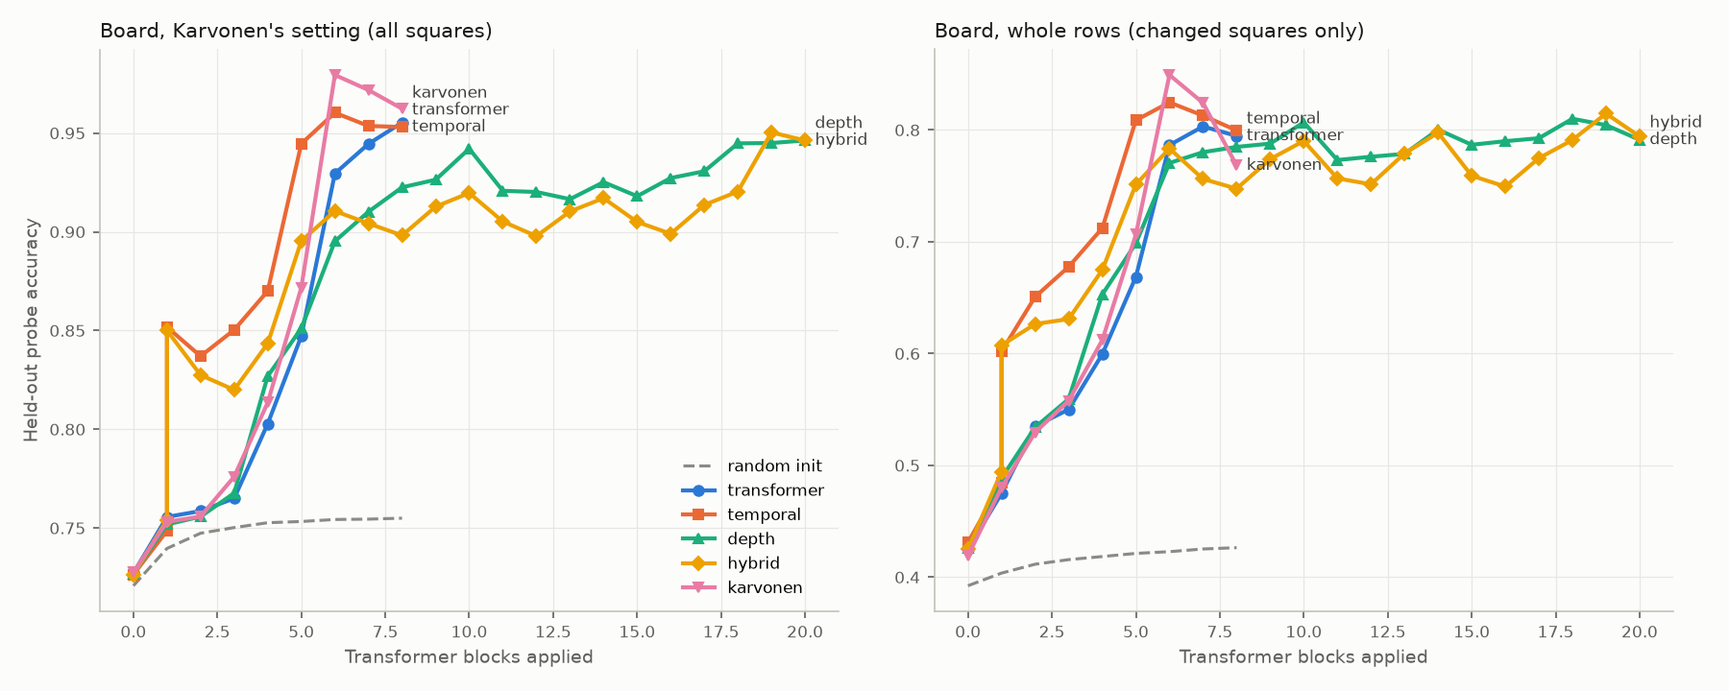
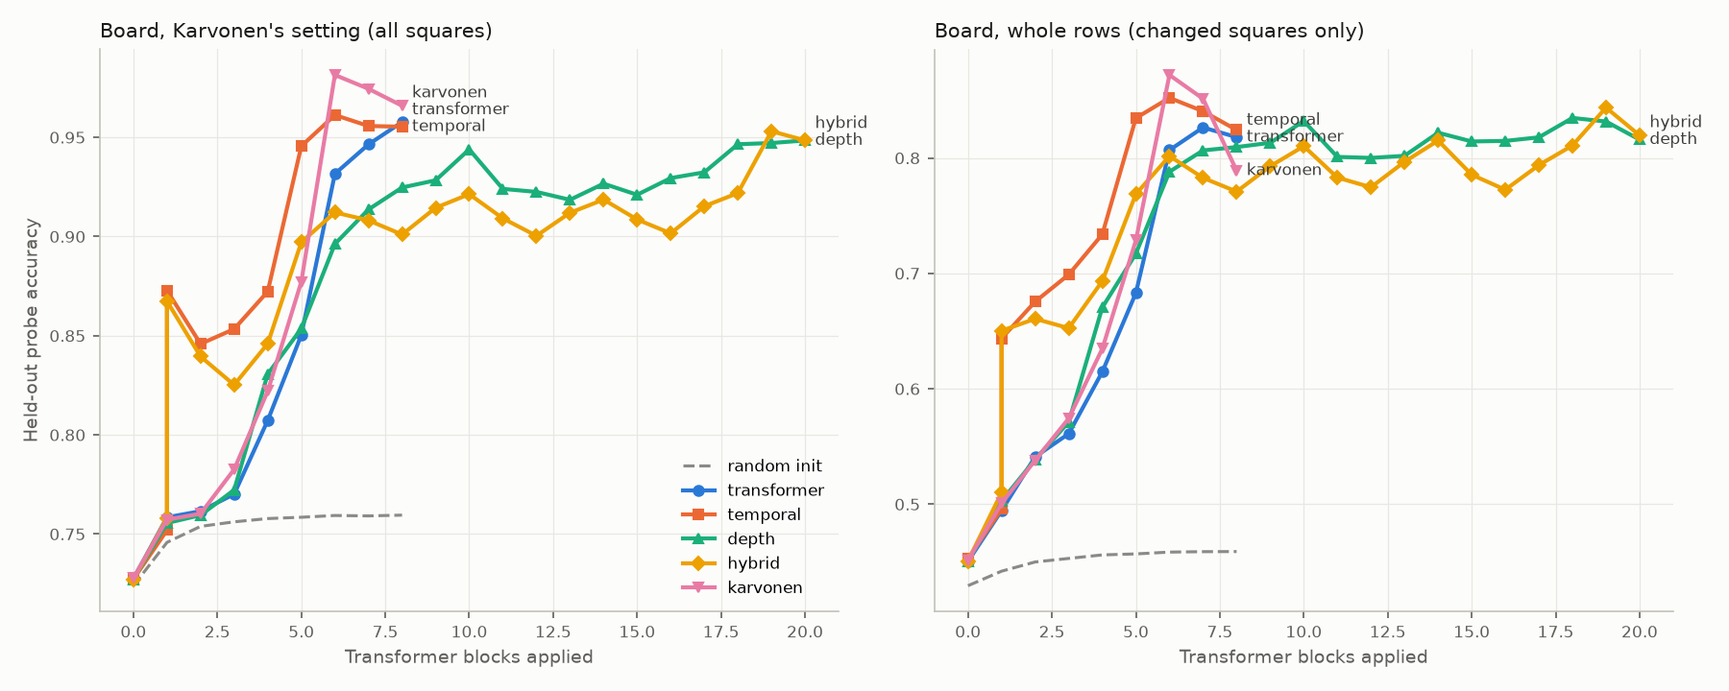
docs(interp): correct the board-state report
Numbers now come from probes trained to convergence and fitted per side to
move where the encoding is absolute. Adds the move-cycle and mixer
sections, and replaces the pooled before/after and decision tables, whose
probes mixed White- and Black-to-move points. Notes that steering used the
first-round probes.

diff --git a/experiments/interp/board_state/REPORT.md b/experiments/interp/board_state/REPORT.md
@@ -4,16 +4,17 @@ Linear probes for the board and the side to move at every residual-stream site o
 
 ## Summary
 
-- **The pipeline reproduces Karvonen.** In his setting, his model's board probe peaks at L6 with 0.980 of squares correct (paper: 0.991 with about ten times more probe games). The random-init model scores 0.754 (paper: 0.750). His 99% applies only to each game's first 365 characters. Over whole 1,023-character rows the same kind of probe gets 0.87–0.91.
-- **Temporal memory brings the board in early.** Right after the temporal mixer (`Tmix`, one block applied), temporal and hybrid decode the board at 0.85. The transformer needs five blocks to get there, and the depth model's first iteration tracks the transformer.
-- **The memory carries the board already updated with the latest move,** and the model uses it to choose its move. The previous character's late layers apply the move. Swapping the memories of the last 64 characters for another game's moves both the board read at L6 and the next move toward that other game.
-- **Temporal peaks slightly higher and earlier than our transformer:** 0.960 at L6 against 0.955 at L8. All four 20B arms stay below Karvonen's 3×-longer-trained transformer (0.979). Recurrence gives an earlier board, not a much better one.
-- **The move decision is readable earlier in the temporal model too.** The memory carries information about the upcoming move from the previous character. Final readouts are equal across arms. In the looped arms, core iterations after the first (hybrid) or second (depth) add almost nothing to board or move readouts.
+- **The pipeline reproduces Karvonen.** In his setting, his model's board probe peaks at L6 with 0.981 of squares correct (paper: 0.991, with about ten times more probe games). The random-init model scores 0.760 (paper: 0.750). His 99% holds only for each game's first 365 characters; over whole rows the best probe reads 0.90–0.93.
+- **The temporal memory brings the board in early.** Right after the temporal mixer (`Tmix`, one block applied), temporal and hybrid decode the board at 0.87. The transformer reaches 0.85 only at L5.
+- **The memory holds almost the whole board, but the mixer drops part of it.** The memory a dot reads decodes at 0.939 (temporal) and 0.959 (hybrid); after the mixer, 0.873 and 0.867. Mostly older changes are lost. The memory's term entering the mixer is smaller than the current character's (median 0.64×, hybrid 0.50×).
+- **The model uses the board in its memory to choose its move.** Swapping the memories read by the last 64 characters for another game's moves the board at L6 and the next move toward that other game.
+- **The full board is assembled where a move is chosen.** At the decision characters and the move's first character, older changes read at 0.86–0.89 by L5. The board then fades as the move is written (0.79 inside it, 0.76 at its last character). At spaces before move numbers and at digits it stays at 0.67–0.75.
+- **Recurrence gives an earlier board, not a much better one.** Best board, Karvonen setting: temporal 0.961, transformer 0.958, hybrid 0.953, depth 0.948, Karvonen's 3×-longer-trained transformer 0.981. On changed squares over whole rows temporal leads our transformer by 0.026.
+- **Looped cores add little after their first or second pass.** Depth needs its second iteration for the board and the move; the hybrid has both after its first. Its iterations restart mostly from L2: the previous iteration enters at half the weight of the fresh start (depth model: 0.8).
 - **The probes are causal where the model reads them.**
-  - Pushing the side-to-move direction at L2–L3 flips the model between predicting a move number and a move in 99–100% of held-out cases in the transformer and depth arms. A random direction of the same norm does nothing.
-  - Deleting a piece from the probed board in the late layers makes the new move legal on the modified board 64–72% of the time across our arms, against 10–19% for random directions. Temporal gives 72%, our transformer 65%, Karvonen's model 78%.
-  - Edits where the memory delivers the board have no effect, because earlier characters still carry the true board.
-- **Single training seed, one probe split.** Differences of about 0.005 in probe accuracy should not be over-read.
+  - Pushing the side-to-move direction at L2–L3 flips the model between predicting a move number and a move in 96–100% of held-out cases in the transformer and depth arms.
+  - Deleting a piece from the probed board in the late layers makes the new move legal on the modified board 64–72% of the time across our arms, against 10–19% for random directions.
+- **One training seed per arm, one probe split.** Probe differences of about 0.005 should not be read as real.
 
 ![Board probe accuracy against transformer blocks applied](report_figures/probe_curves.png)
 
@@ -21,103 +22,152 @@ Linear probes for the board and the side to move at every residual-stream site o
 
 ## Replicating Karvonen
 
-Karvonen's probe code (`chess_llm_interpretability`) truncates each probe game to its first 365 characters and probes only `.` characters within them. Our first pass probed whole rows, which contain long games and later games in a row, and gave about 0.94 at best. `board_karvonen` applies his restriction.
+Karvonen's probe code (`chess_llm_interpretability`) truncates each probe game to its first 365 characters and probes only `.` characters within them. Probing whole rows, which contain long games and later games in a row, gives lower accuracy. `board_karvonen` applies his restriction.
 
 | Model | L4 | L5 | L6 | L7 | L8 |
 | --- | --- | --- | --- | --- | --- |
-| Karvonen's model | 0.814 | 0.872 | **0.979** | 0.972 | 0.962 |
-| Our transformer | 0.803 | 0.847 | 0.930 | 0.945 | **0.955** |
-| Random init | 0.753 | 0.753 | 0.754 | 0.755 | 0.755 |
+| Karvonen's model | 0.822 | 0.877 | **0.981** | 0.974 | 0.966 |
+| Our transformer | 0.807 | 0.850 | 0.932 | 0.946 | **0.958** |
+| Random init | 0.758 | 0.758 | 0.759 | 0.759 | 0.760 |
 
-The per-square majority baseline is 0.667. The mine/theirs encoding is not the issue: at `.` characters White is always to move, so mine is white.
+The per-square majority baseline is 0.667. At `.` characters White is always to move, so the mine/theirs encoding coincides with white/black there.
 
-At white-to-move points, errors concentrate on the opponent's pieces. In an L7 probe of our transformer, White's pieces are recalled at 0.93–0.97 and Black's at 0.80–0.85, mostly black pawns predicted empty. An MLP probe at the same site reaches 0.961 over whole rows, against 0.940 for the linear probe. Part of the board is present but not linearly readable.
+*Exploratory, not reproduced by the committed scripts:* on a separate 3,000-row capture, a dot-only probe at our transformer's L7 recalled White's pieces at 0.93–0.97 and Black's at 0.80–0.85, and an MLP probe reached 0.961 against 0.940 for the linear probe.
 
 ## Layer curves
 
-Board accuracy in Karvonen's setting, and on changed squares over whole rows (squares whose class differs from the starting position):
+Board accuracy in Karvonen's setting, and on changed squares (class differs from the starting position) over whole rows:
 
-| Arm | Early site | Karvonen setting at early site | Best (site) | Changed squares, best |
+| Arm | Early site | Karvonen setting at early site | Best, Karvonen setting (site) | Best, changed squares (site) |
 | --- | --- | --- | --- | --- |
-| Transformer | L2 | 0.742 | 0.955 (L8) | 0.803 |
-| Temporal | `Tmix` | **0.852** | **0.960 (L6)** | **0.825** |
-| Depth | L2 | 0.756 | 0.946 (L8) | 0.810 |
-| Hybrid | `Tmix` | **0.850** | 0.950 (L7) | 0.815 |
-| Karvonen | L2 | 0.756 | 0.979 (L6) | 0.849 |
+| Transformer | L2 | 0.762 | 0.958 (L8) | 0.826 (L7) |
+| Temporal | `Tmix` | **0.873** | **0.961 (L6)** | **0.852 (L6)** |
+| Depth | L2 | 0.760 | 0.948 (L8) | 0.835 (L6@4) |
+| Hybrid | `Tmix` | **0.867** | 0.953 (L7) | 0.844 (L7) |
+| Karvonen | L2 | 0.760 | 0.981 (L6) | 0.872 (L6) |
 
-- **The early jump is the temporal read.** Temporal and hybrid gain 0.10 between L1 and `Tmix`, with no block applied in between.
-- **Looping doesn't sharpen the board.** In depth and hybrid, board accuracy moves between 0.90 and 0.94 inside the loop and reaches its best only at L7 or L8. The hybrid's core stays about 0.02 below the depth core.
-- **Side to move** is decoded perfectly from L2 in every trained arm (random init: 0.53). The two space kinds are the same input token, so this is computed, not read off the input.
+- **The early jump is the temporal read.** Temporal gains 0.12 and the hybrid 0.11 between L1 and `Tmix`, with no block applied in between.
+- **Looped cores:**
+  - Depth: 0.896 after its first iteration (L6@1), 0.944 after its second, 0.947 after its fourth.
+  - Hybrid: 0.912 after its first iteration, 0.922 after its fourth, then 0.953 at L7.
+- **Side to move** is decoded perfectly from L2 in every trained arm (random init: 0.54). The two space kinds are the same input token, so this is computed rather than read off the input.
+
+## The board across the move cycle
+
+`cycle.py` labels every character with its role and with the board after the latest applied move. A move counts as applied at its last character, where the model must know the new position to predict `+`. Each cell is probe accuracy on **squares the latest move changed / squares changed earlier**. Never-changed squares read 0.89–0.97 everywhere. Black's move characters match White's to within 0.01; the check-marker rows are omitted (600 test characters each).
+
+| Temporal: character (e.g. `…Nc6 12.Bb5 a6`) | Memory it reads | `Tmix` | L2 | L5 | L7 |
+| --- | --- | --- | --- | --- | --- |
+| Space after Black's move | 0.95 / 0.77 | 0.92 / 0.61 | 0.85 / 0.66 | 0.80 / 0.67 | 0.77 / 0.67 |
+| Move-number digit | 0.62 / 0.65 | 0.45 / 0.55 | 0.52 / 0.59 | 0.66 / 0.73 | 0.68 / 0.75 |
+| `.` (White decides) | 0.86 / 0.86 | 0.59 / 0.70 | 0.69 / 0.70 | 0.87 / 0.89 | 0.86 / 0.90 |
+| First character of White's move | 0.86 / 0.90 | 0.64 / 0.76 | 0.68 / 0.74 | 0.81 / 0.86 | 0.80 / 0.84 |
+| Inside White's move | 0.79 / 0.82 | 0.56 / 0.65 | 0.61 / 0.66 | 0.74 / 0.79 | 0.73 / 0.77 |
+| Last character of White's move | 0.81 / 0.77 | 0.85 / 0.61 | 0.84 / 0.64 | 0.98 / 0.76 | 0.97 / 0.77 |
+| Space after White's move (Black decides) | 0.95 / 0.76 | 0.91 / 0.60 | 0.82 / 0.67 | 0.87 / 0.89 | 0.86 / 0.90 |
+
+| Transformer | Previous character's L7 | L2 | L5 | L7 |
+| --- | --- | --- | --- | --- |
+| `.` | 0.53 / 0.69 | 0.46 / 0.55 | 0.83 / 0.70 | 0.85 / 0.88 |
+| First character of White's move | 0.85 / 0.88 | 0.46 / 0.55 | 0.65 / 0.69 | 0.79 / 0.85 |
+| Last character of White's move | 0.82 / 0.79 | 0.56 / 0.55 | 0.98 / 0.63 | 0.98 / 0.79 |
+| Space after White's move | 0.96 / 0.79 | 0.49 / 0.55 | 0.85 / 0.70 | 0.85 / 0.88 |
+
+- **The move is applied at its last character, by L5:** 0.98 on the moved squares in both models.
+- **The full board is assembled at the decision characters.** It carries into the move's first character (0.86 on older changes at L5) and fades as the move is written (0.79 inside it, 0.76 at its last character). At spaces before move numbers and at digits, older changes stay at 0.67–0.75 even in late layers.
+- **At every role the mixer passes less than the memory holds,** most for older changes and after bookkeeping characters. Right after a move, the latest move survives it (0.95 → 0.92).
+- **The mixer's gates barely vary by role:** memory gate means 0.11–0.20, slightly higher inside moves.
+- **The transformer has the same rhythm without the early start:** at L2 it reads 0.44–0.57 / 0.55–0.63 across roles, against 0.52–0.85 / 0.59–0.74 for temporal.
+
+## The mixer
+
+`mixer.py`. At dots in Karvonen's setting, board probes on the memory the dot reads (L7 of the previous character), on the mixer output and on L2:
+
+| | Memory | `Tmix` | L2 |
+| --- | --- | --- | --- |
+| Temporal, all squares / changed | 0.939 / 0.893 | 0.873 / 0.759 | 0.846 / 0.722 |
+| Hybrid, all squares / changed | 0.959 / 0.926 | 0.867 / 0.754 | 0.839 / 0.708 |
+
+Contributions entering the mixer, over all positions of 40 rows:
+
+- **Temporal:** the memory term (gate × projected memory) is a median 0.64× the current-character term, 10th–90th percentile 0.32–0.98. The hybrid's is 0.50× (0.25–0.74).
+- **Gates:** mean gates are 0.16 (memory) and 0.12 (current character) for temporal, 0.08 and 0.15 for the hybrid. They start at 0.10 and 0.90.
+- **Depth mixer, entering each iteration:** the previous iteration's term is 0.48–0.50× the fresh start from L2 in the hybrid, and 0.79–0.85× in the depth model.
 
 ## The memory carries the board
 
-**Memory swap** (`swap.py`, 200 pairs of white-to-move dots at the same ply from different held-out games). For the last *k* characters of game A, the memory each character reads is replaced with game B's memory at the same offset. This is applied on every settling pass. On squares where A and B differ, the table shows how often the `board_karvonen` probe reads A and how often B. It also shows the next-character probability on first characters that begin a legal move only in A, or only in B.
+**Memory swap** (`swap.py`, 200 pairs of white-to-move dots at the same ply from different held-out games). For the last *k* characters of game A, the memory each character reads is replaced with game B's memory at the same offset, on every settling pass. On squares where A and B differ, each cell shows how often the `board_karvonen` probe reads A and how often B. The last two columns are the next-character probability on first characters that begin a legal move only in A, or only in B.
 
-| Temporal | `Tmix` A / B | L2 A / B | L6 A / B | L8 A / B | P(only-A first char) | P(only-B first char) |
+| Temporal | `Tmix` A / B | L2 A / B | L6 A / B | L8 A / B | P(only-A) | P(only-B) |
 | --- | --- | --- | --- | --- | --- | --- |
-| No swap | 0.70 / 0.23 | 0.68 / 0.23 | 0.93 / 0.04 | 0.92 / 0.05 | 0.279 | 0.001 |
-| k = 1 | 0.21 / 0.72 | 0.56 / 0.34 | 0.93 / 0.04 | 0.92 / 0.05 | 0.275 | 0.001 |
-| k = 4 | 0.21 / 0.72 | 0.52 / 0.38 | 0.93 / 0.04 | 0.91 / 0.05 | 0.241 | 0.028 |
-| k = 16 | 0.21 / 0.72 | 0.39 / 0.51 | 0.80 / 0.12 | 0.79 / 0.13 | 0.168 | 0.065 |
-| k = 64 | 0.21 / 0.72 | 0.31 / 0.60 | 0.59 / 0.28 | 0.59 / 0.29 | 0.109 | 0.134 |
+| No swap | 0.75 / 0.18 | 0.70 / 0.22 | 0.93 / 0.04 | 0.93 / 0.05 | 0.279 | 0.001 |
+| k = 1 | 0.18 / 0.75 | 0.55 / 0.35 | 0.93 / 0.04 | 0.93 / 0.05 | 0.275 | 0.001 |
+| k = 4 | 0.18 / 0.75 | 0.51 / 0.39 | 0.93 / 0.04 | 0.91 / 0.05 | 0.241 | 0.028 |
+| k = 16 | 0.18 / 0.75 | 0.38 / 0.52 | 0.80 / 0.12 | 0.79 / 0.13 | 0.168 | 0.065 |
+| k = 64 | 0.18 / 0.75 | 0.30 / 0.61 | 0.59 / 0.28 | 0.59 / 0.29 | 0.109 | 0.134 |
 
-| Hybrid | `Tmix` A / B | L2 A / B | L6@4 A / B | L8 A / B | P(only-A first char) | P(only-B first char) |
+| Hybrid | `Tmix` A / B | L2 A / B | L6@4 A / B | L8 A / B | P(only-A) | P(only-B) |
 | --- | --- | --- | --- | --- | --- | --- |
-| No swap | 0.70 / 0.22 | 0.66 / 0.25 | 0.86 / 0.10 | 0.91 / 0.06 | 0.280 | 0.001 |
-| k = 1 | 0.24 / 0.69 | 0.47 / 0.43 | 0.86 / 0.10 | 0.91 / 0.06 | 0.277 | 0.001 |
-| k = 16 | 0.24 / 0.69 | 0.36 / 0.55 | 0.79 / 0.13 | 0.85 / 0.09 | 0.225 | 0.040 |
-| k = 64 | 0.24 / 0.69 | 0.31 / 0.59 | 0.63 / 0.23 | 0.67 / 0.20 | 0.195 | 0.086 |
+| No swap | 0.74 / 0.18 | 0.68 / 0.23 | 0.86 / 0.10 | 0.91 / 0.06 | 0.280 | 0.001 |
+| k = 1 | 0.20 / 0.73 | 0.45 / 0.45 | 0.86 / 0.10 | 0.91 / 0.06 | 0.277 | 0.001 |
+| k = 16 | 0.20 / 0.73 | 0.34 / 0.57 | 0.79 / 0.13 | 0.85 / 0.09 | 0.225 | 0.040 |
+| k = 64 | 0.20 / 0.73 | 0.29 / 0.62 | 0.64 / 0.23 | 0.67 / 0.21 | 0.195 | 0.086 |
 
-- **Controls:** self-swaps (B = A) reproduce the unswapped run for every *k*.
+- **Controls:** self-swaps (B = A) match the unswapped run to within 0.0005 at every site and window.
 - **Narrow windows:** swapping one character's memory changes the board at `Tmix` but not the move. Attention reads A's board from neighbouring characters' memories.
-- **Wide windows:** these push the board through to L8 and shift the move toward B. The temporal model decides its move partly from the board in its memory, not only from the text.
-- **Hybrid vs temporal:** the hybrid depends on its memory less. Its core iterations partly restore A: 0.59 at L6@1, 0.63 at L6@4, 0.68 at L7 for *k* = 64.
+- **Wide windows:** these push the board through to L8 and shift the move toward B.
+- **Hybrid:** it depends on its memory less, and its core iterations partly restore A: 0.59 at L6@1, 0.64 at L6@4, 0.68 at L7 for *k* = 64.
 
-**The update is already applied** (`update.py`). At pre-move points, probes for the board before and after the most recent move are scored on the squares that move changed:
+**When the latest move is applied** (`update.py`, one probe per side to move). Probes for the board before and after the most recent move, scored on the squares that move changed, as after / before:
 
-| Site | Transformer after / before | Temporal after / before |
-| --- | --- | --- |
-| L1 | 0.40 / 0.47 | 0.39 / 0.47 |
-| `Tmix` | — | **0.66** / 0.54 |
-| L2 | 0.45 / 0.49 | 0.63 / 0.54 |
-| L4 | 0.63 / 0.58 | 0.59 / 0.53 |
-| L6 | 0.66 / 0.50 | 0.65 / 0.45 |
+| Site | Transformer at `.` | Transformer after White's move | Temporal at `.` | Temporal after White's move |
+| --- | --- | --- | --- | --- |
+| L1 | 0.40 / 0.47 | 0.41 / 0.47 | 0.39 / 0.47 | 0.40 / 0.47 |
+| `Tmix` | — | — | 0.57 / 0.44 | **0.91** / 0.66 |
+| L2 | 0.47 / 0.51 | 0.49 / 0.52 | 0.68 / 0.56 | 0.82 / 0.64 |
+| L3 | 0.69 / 0.59 | 0.69 / 0.59 | 0.75 / 0.58 | 0.80 / 0.63 |
+| L4 | 0.83 / 0.66 | 0.87 / 0.67 | 0.74 / 0.57 | 0.78 / 0.61 |
+| L6 | 0.87 / 0.55 | 0.88 / 0.57 | 0.89 / 0.44 | 0.89 / 0.48 |
 
-The transformer switches from the old board to the new one at L4. The temporal memory arrives already updated: the previous character's late layers applied the move. This is state *carried*, not state rebuilt at every character.
+- **The transformer re-applies the latest move at L3–L4 at every decision character.**
+- **The temporal memory arrives with the move applied:** clearly one character after the move (0.91 vs 0.66), more weakly at the dot three characters later (0.57 vs 0.44).
 
 ## Where the move decision forms
 
-`decision.py`: at pre-move points, linear probes for the from-square of the move actually played, and the logit lens (final norm and unembedding) scored on the move's first character. The played move is a human's; the model's top-1 agreement with it is about 0.6.
+`decision.py`: at decision characters, probes for the from-square of the move actually played (one probe per side to move), and the logit lens (final norm and unembedding) scored on the move's first character. The played move is a human's, so the ceiling is how often the model predicts it.
 
 | Arm | From-square: early | mid | late | Logit lens: early | mid | late |
 | --- | --- | --- | --- | --- | --- | --- |
-| Transformer | 0.106 (L2) | 0.368 (L6) | 0.429 (L8) | 0.000 (L2) | 0.354 (L6) | 0.714 (L8) |
-| Temporal | **0.213 (`Tmix`)** | **0.400 (L6)** | 0.432 (L8) | **0.223 (`Tmix`)** | 0.454 (L6) | 0.721 (L8) |
-| Depth | 0.110 (L2) | 0.409 (L6@4) | 0.428 (L8) | 0.000 (L2) | 0.509 (L6@4) | 0.724 (L8) |
-| Hybrid | 0.179 (`Tmix`) | 0.415 (L6@4) | 0.428 (L8) | 0.088 (`Tmix`) | 0.506 (L6@4) | 0.725 (L8) |
-| Karvonen | 0.108 (L2) | 0.389 (L6) | 0.416 (L8) | 0.000 (L2) | 0.379 (L6) | 0.726 (L8) |
+| Transformer | 0.114 (L2) | 0.427 (L6) | 0.492 (L8) | 0.000 (L2) | 0.354 (L6) | 0.714 (L8) |
+| Temporal | **0.260 (`Tmix`)** | 0.464 (L6) | 0.497 (L8) | **0.223 (`Tmix`)** | 0.454 (L6) | 0.721 (L8) |
+| Depth | 0.118 (L2) | 0.479 (L6@4) | 0.499 (L8) | 0.000 (L2) | 0.509 (L6@4) | 0.724 (L8) |
+| Hybrid | 0.220 (`Tmix`) | 0.474 (L6@4) | 0.497 (L8) | 0.088 (`Tmix`) | 0.506 (L6@4) | 0.725 (L8) |
+| Karvonen | 0.117 (L2) | 0.472 (L6) | 0.518 (L8) | 0.000 (L2) | 0.379 (L6) | 0.726 (L8) |
 
-- **Temporal's memory carries the upcoming move as well as the board.** The previous character's late layers already represent the move about to be written. This is a first handle on "considered moves".
-- **Looped arms:**
-  - Hybrid: most of the move is readable after the first core iteration (0.402 at L6@1).
-  - Depth: needs the second iteration (0.349 at L6@1, 0.402 at L6@2).
-  - Later iterations add almost nothing.
-- **Final readouts are equal across arms.** Recurrence makes the decision available earlier in depth, not better at the output.
+- **The temporal memory carries information about the upcoming move.** At `Tmix` the from-square reads as well as at the transformer's L4 (0.263).
+- **Looped cores:**
+  - Depth: 0.399 after the first iteration, 0.466 after the second, 0.479 after the fourth.
+  - Hybrid: 0.463 after its first iteration and 0.474 after its fourth.
+- **Final readouts are nearly equal across our arms (0.49–0.50).** Karvonen's model is highest (0.518).
 
 ## Causal checks
 
-**Side to move** (`steer.py turn`, 200 held-out spaces, ×2 the probe-margin scale). The table shows the fraction whose predicted next-character type (digit or letter) flips.
+The steering runs use the first round of probes (12 training epochs, about 0.02 below convergence). The results test those probes' directions.
 
-| Arm | Best sites (flip rate) | Late sites | Random direction |
+**Side to move** (`steer.py turn`, 200 held-out spaces, 100 for the hybrid, ×2 the probe-margin scale). Each cell is the fraction whose predicted next-character type (digit or letter) flips:
+
+| Arm | Best sites | Late sites | Random direction |
 | --- | --- | --- | --- |
 | Transformer | L2 0.99, L3 1.00 | L6–L8 ≤ 0.03 | ≤ 0.08 |
 | Temporal | L3 0.79, L2 0.51 | `Tmix` 0.00, L7–L8 0.00 | 0.00 |
 | Depth | L3@1 0.99, L4@1 0.99, L2 0.96 | L6@4 0.50, L7 0.51 | ≤ 0.05 |
 | Hybrid | L2 0.59 | L6@4 0.54, L7 0.51; L3@1 and L6@1 0.00 | ≤ 0.05 |
 
-A side-to-move edit at `Tmix` has no effect in either temporal-memory arm, although the probe reads side to move perfectly there. The model recomputes it from the text at L2–L3. Late sites decode it but no longer use it; a flip rate near 0.50 means only one direction flips. The hybrid's L3@1 is unexplained: L2 edits work there but L3@1 edits don't, unlike the depth arm.
+- **Edits at `Tmix` have no effect,** although the probe reads side to move perfectly there. The model recomputes it from the text at L2–L3.
+- **A flip rate near 0.50 means only one direction flips.**
+- **In the hybrid, first-iteration edits have no effect even at ×16** (40 positions). The edits reach the output: random pushes there change the logits. Each iteration restarts mostly from the unedited L2, which already holds the correct side to move, and takes the previous iteration at half weight. The depth model weights it at 0.8, and there the same edits work.
 
-**Piece removal** (`steer.py board`, Karvonen's intervention, 150 held-out positions). Every position's original greedy move uses the deleted piece, so the unedited rate is 0.
+**Piece removal** (`steer.py board`, Karvonen's intervention; 150 held-out positions, 100 for the hybrid). Every position's original greedy move uses the deleted piece, so the unedited rate is 0.
 
 | Arm | Edit | Legal on modified board | Legal on original | Random direction |
 | --- | --- | --- | --- | --- |
@@ -133,20 +183,21 @@ A side-to-move edit at `Tmix` has no effect in either temporal-memory arm, altho
 | Depth | L6@1, ×4 | 0.000 | 1.000 | 0.000 |
 | Depth | L5 at all four iterations, ×4 | 0.640 | 0.907 | 0.147 |
 | Depth | L4@4–L6@4 + L7, ×2 | 0.667 | 0.907 | 0.120 |
-| Hybrid (100 positions) | `Tmix` + L2, ×4 | 0.020 | 1.000 | 0.000 |
+| Hybrid | `Tmix` + L2, ×4 | 0.020 | 1.000 | 0.000 |
 | Hybrid | L5 at all four iterations, ×4 | 0.570 | 0.910 | 0.080 |
 | Hybrid | L4@4–L6@4 + L7, ×2 | 0.640 | 0.850 | 0.100 |
 
-Karvonen reports 0.904 for his model with edits at L4–L7, using five moves sampled at temperature 1 rather than one greedy move. Edits at L2–L4 or L8 alone have no effect in either transformer. Large edits cost legality on the original board, a side effect Karvonen also reports.
-
-- **Every arm's board direction is causal in its late layers.** The best four-site window gives 0.64–0.72 on our 20B arms, against 0.10–0.19 for random directions. Temporal is highest (0.720), in line with its probe accuracy.
-- **Edits where the memory delivers the board do almost nothing** (`Tmix` + L2: temporal 0.233 at ×4, hybrid 0.020). This matches the one-character memory swap: the edit starts at the probed character, and every earlier character still carries the true board, which attention reads.
-- **In looped arms only late iterations matter.** Editing L6@1 in the depth arm has no effect, because later iterations overwrite it. Editing the last iteration or every iteration works.
+- **Comparison with Karvonen:** he reports 0.904 for his model with edits at L4–L7, from five moves sampled at temperature 1 rather than one greedy move.
+- **Edits at L2–L4 or at L8 alone have no effect in either transformer.**
+- **Large edits cost legality on the original board,** as Karvonen also reports.
+- **Edits start at the probed character and continue through the move being written,** and they flow into the memory. They show that the late board directions affect the move; they don't separate use at the decision character from use by later characters.
+- **Edits where the memory delivers the board do almost nothing** (`Tmix` + L2). This matches the one-character memory swap: every earlier character still carries the true board.
 
 ## Limitations
 
-- **Probe data:** probes are trained on 800 rows and tested on 200; the Karvonen setting uses 26.7k training points, about a tenth of his.
-- **One seed per arm.** The temporal-over-transformer peak difference (0.005) is within what a second seed could reverse.
+- **Probe data:** probes are trained on 800 rows and tested on 200. The Karvonen setting uses 26.7k training points, about a tenth of his.
+- **One seed per arm.** The temporal-over-transformer peak difference in Karvonen's setting (0.003) is noise-level; the changed-square difference (0.026) is larger but still single-seed.
 - **The temporal arm is the live-aligned export,** not the as-trained model, whose fixed point is broken (see the 20B report).
 - **Move readouts use the human move actually played,** not the model's own choice.
-- **Steering uses greedy decoding** and one edit rule. Scales are set per example from the probe margin, following Karvonen's dynamic scale.
+- **Steering:** it uses the first-round probes, greedy decoding and one edit rule, with scales set per example from the probe margin, following Karvonen's dynamic scale.
+- **The board is represented relative to the side to move.** Every absolute-encoding analysis fits one probe per side to move; pooling them understates accuracy.
